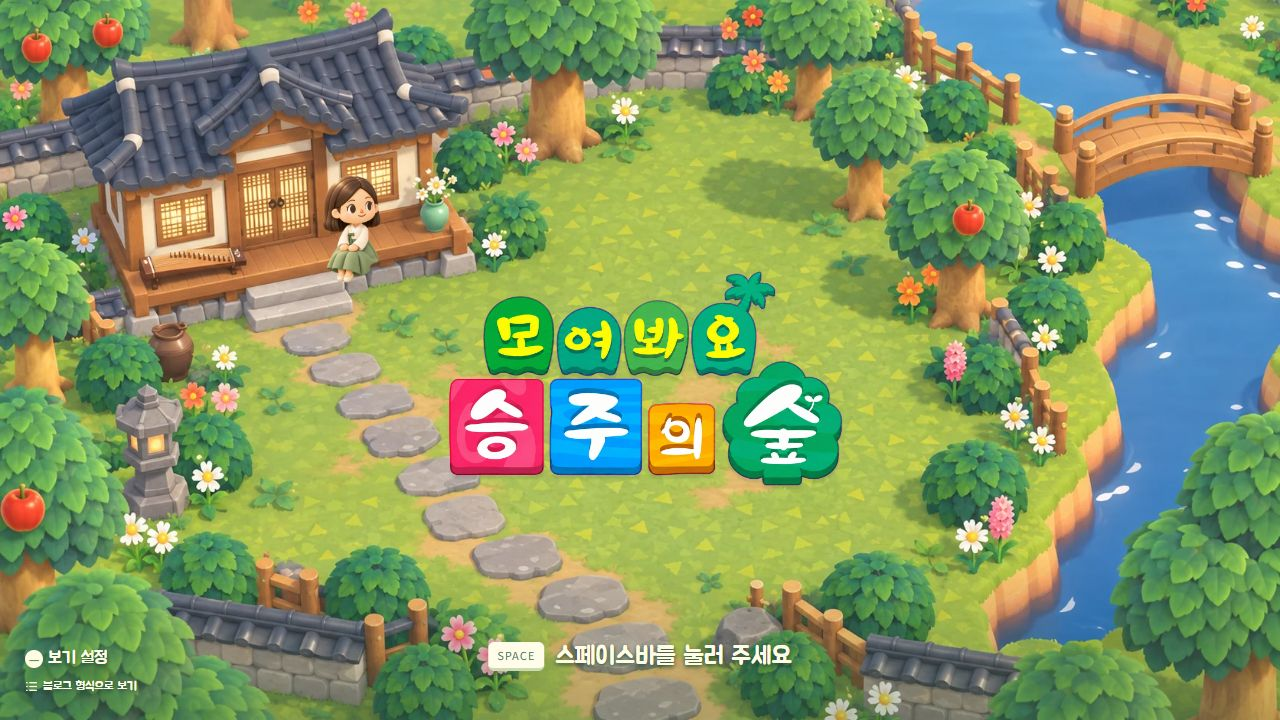
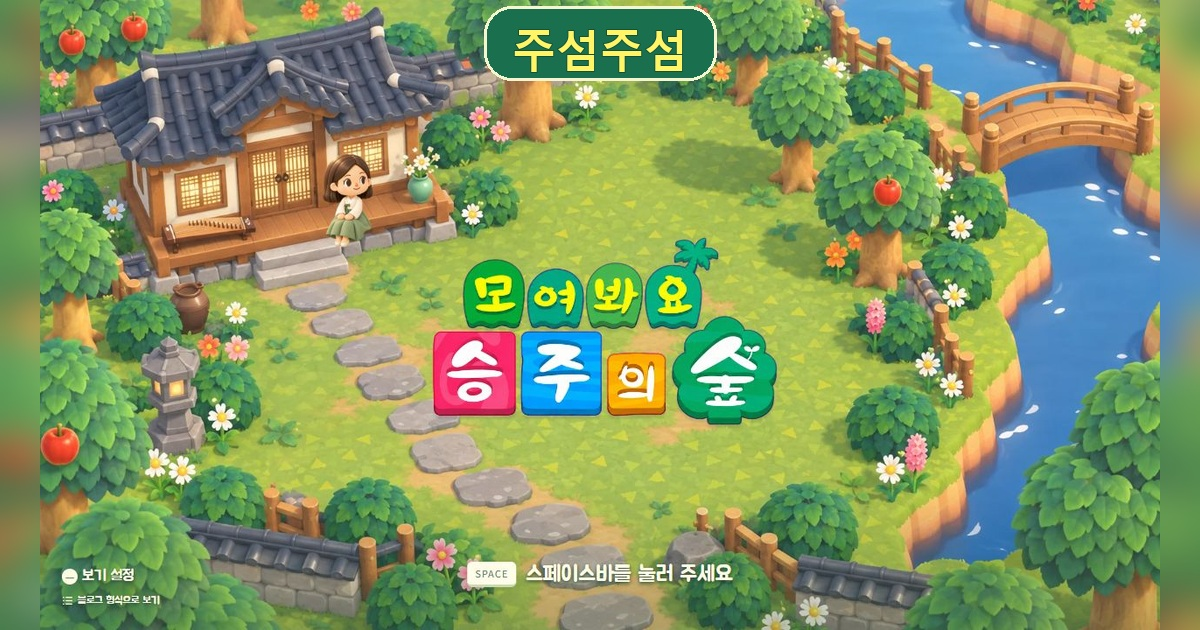
Optimize social card framing

diff --git a/index.html b/index.html
@@ -12,8 +12,8 @@
 <meta property="og:description" content="한옥과 텃밭을 산책하며 프로젝트와 경험을 둘러보는 게임형 포트폴리오">
 <meta property="og:url" content="https://zoe3399.github.io/">
 <meta property="og:image" content="https://zoe3399.github.io/assets/img/social/main-screen-og.jpg">
-<meta property="og:image:width" content="1280">
-<meta property="og:image:height" content="720">
+<meta property="og:image:width" content="1200">
+<meta property="og:image:height" content="630">
 <meta property="og:image:alt" content="한옥 마루와 앉아 있는 캐릭터, 로고가 보이는 주섬주섬 메인 화면">
 <meta name="twitter:card" content="summary_large_image">
 <link rel="preconnect" href="https://fonts.googleapis.com">
